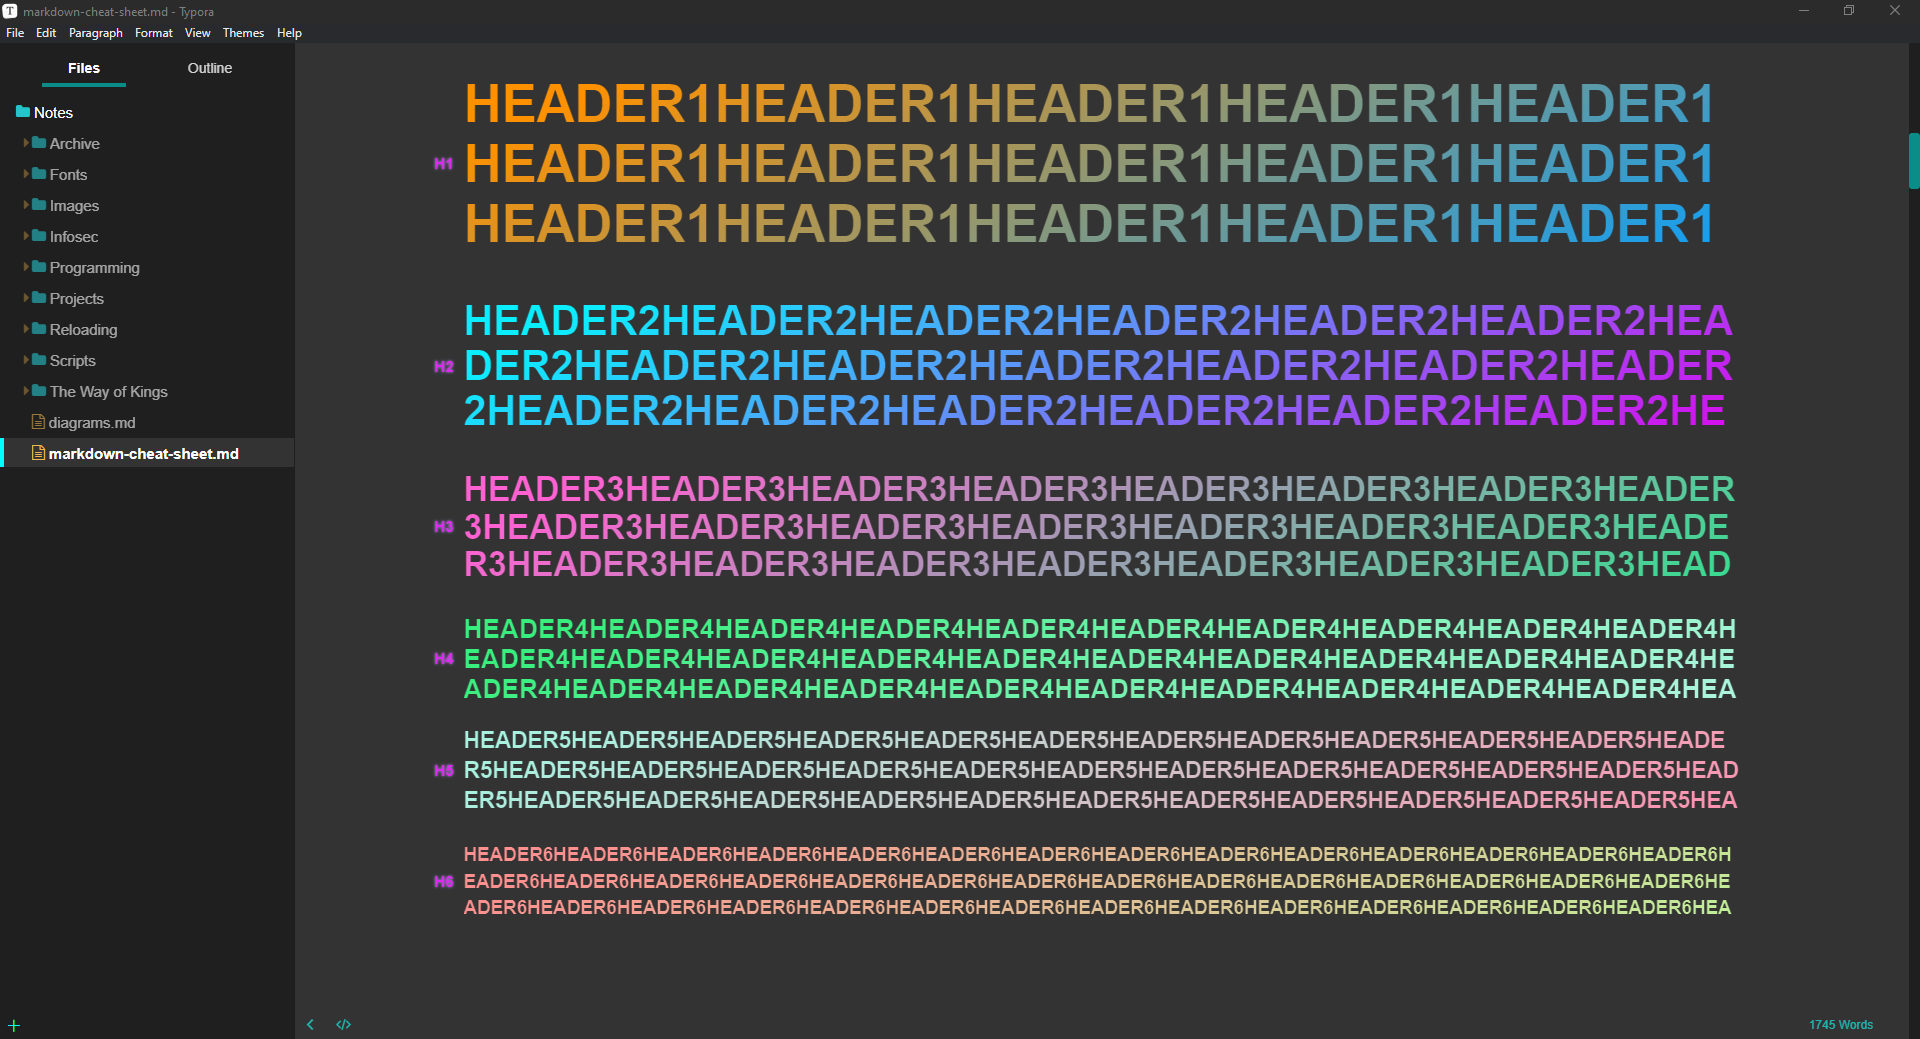
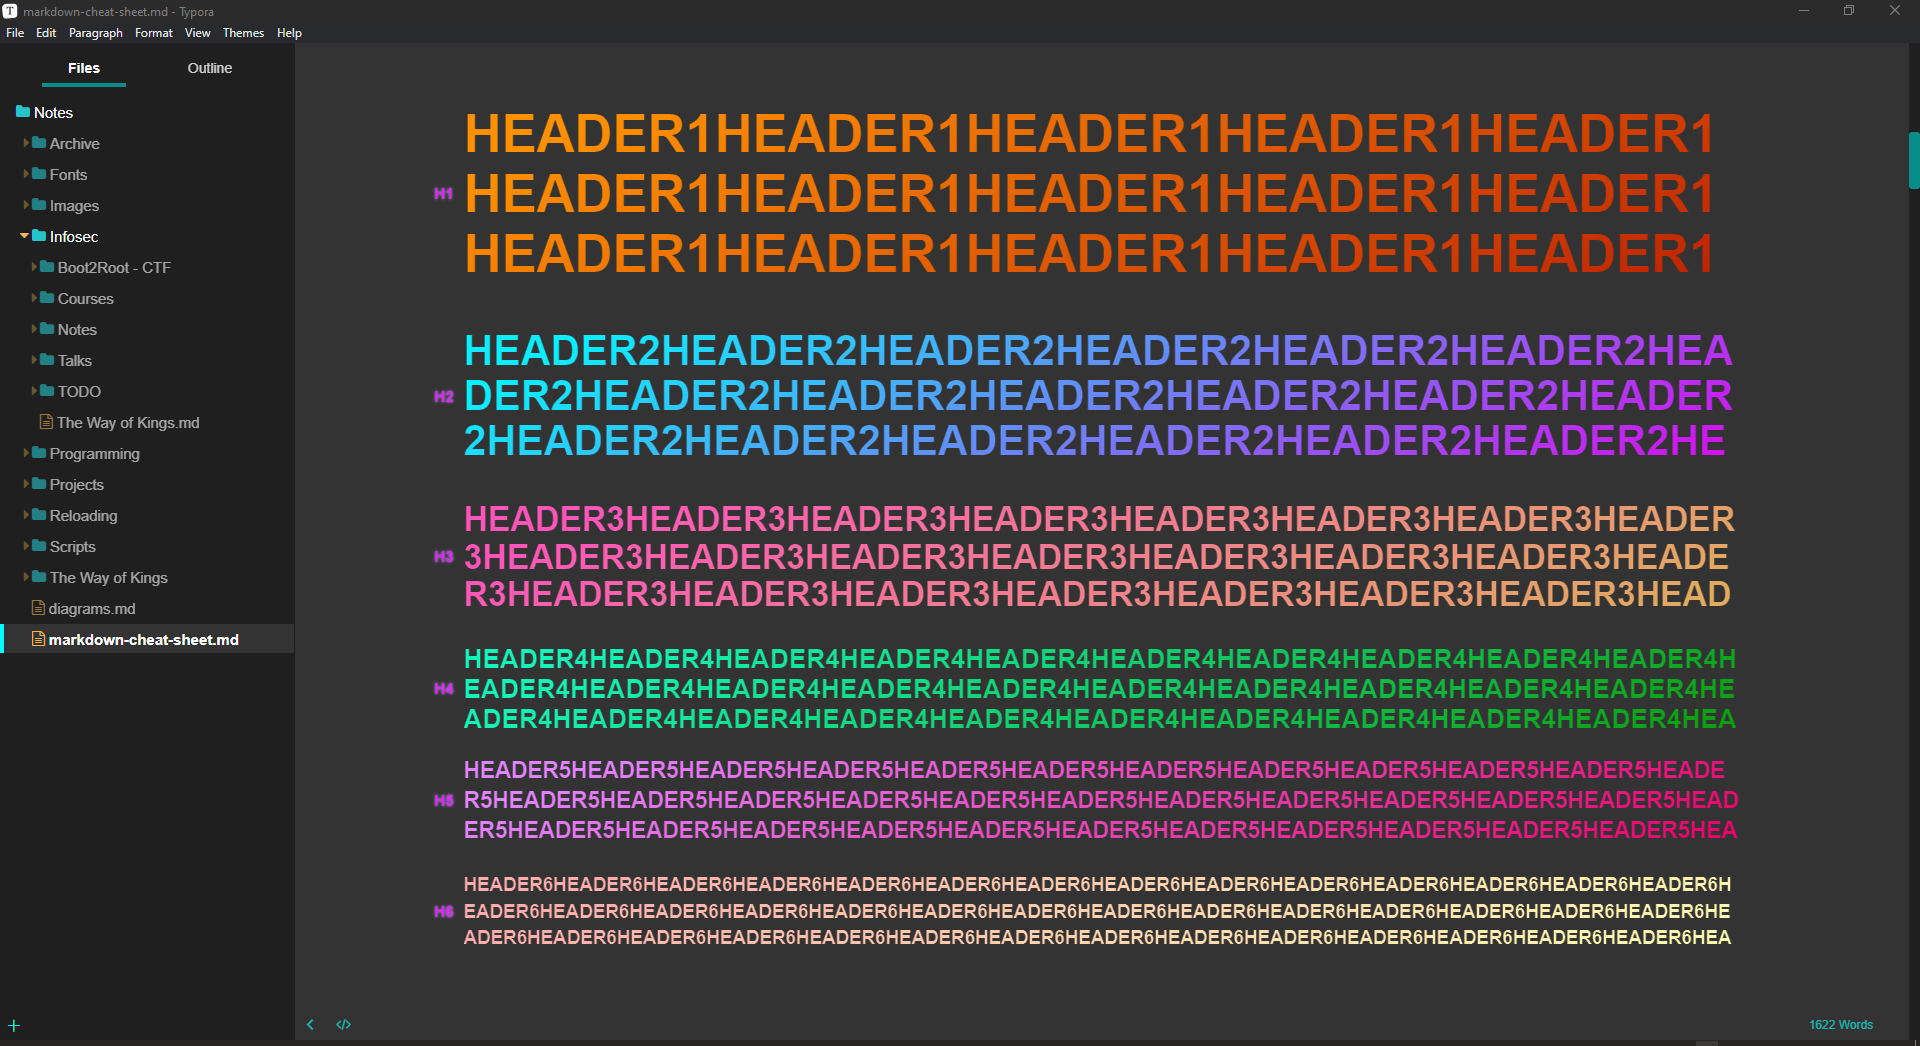
update colors

diff --git a/nova/colors.css b/nova/colors.css
@@ -29,17 +29,16 @@
     --color-keyboard-border: #1f202033;
     --color-keyboard-shadow: #1f2020c0;
     --h1-color-front: #ff9100;
-    --h1-color-back: #0c9ffa;
+    --h1-color-back: #BD2000;
     --h2-color-front: #0BEEFF;
     --h2-color-back: #d90bed;
-    --h3-color-front: #FF61D2;
-    --h3-color-back: #35DE8F;
-    --h4-color-front: #38EF7D;
-    --h4-color-back: #B0F5E0;
-    --h5-color-front: #A9F1DF;
-    --h5-color-back: #FE90AF;
-    --h6-color-front: #FE9090;
-    --h6-color-back: #BFF098;
+    --h3-color-front: #FF55BB;
+    --h3-color-back: #e0af5a;
+    --h4-color-front: #15F5BA;
+    --h4-color-back: #0c9c09;
+    --h5-color-front: #E384FF;
+    --h5-color-back: #E90064;
+    --h6-color-front: #FFACAC;
+    --h6-color-back: #FBFFB1;
     --color-test: #1eff00;
 }
-
